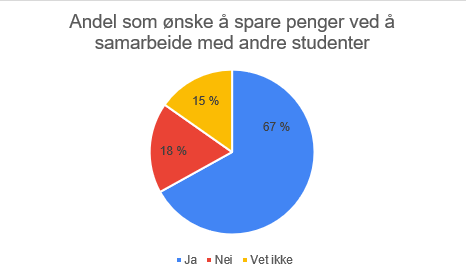
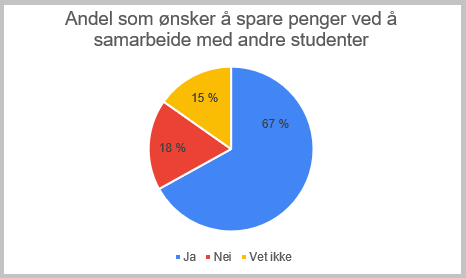
Lagt inn innhold html, css, satt contentWrap

diff --git a/HTML/sideToOmOssNO.html b/HTML/sideToOmOssNO.html
@@ -6,7 +6,7 @@
         <title>CoMeals</title>
     </head>
     <body>
-        <div class="page2Wrap">
+        <div class="contentWrap">
             <div>
                 <h1>Utfordringer</h1>
 
@@ -40,6 +40,12 @@
 
                 <br>
 
+                <div class="sideToPics">
+                        <img src="../Pics/diagramNO.jpg">
+                    </div>  
+
+                <br>
+
                 <p>FN har estimert at ca. en tredjedel av all mat som produseres i verden ikke blir spist.
                     Det er målt at det ble kastet 73kg spiselig mat per innbygger i 2017, noe som tilsvarer
                     et årlig økonomiske tap på 22 milliarder norske kroner og et klimagassutslipp på 1.3 millioner
@@ -50,7 +56,7 @@
                 <br>
                 
                 <div class="sideToPics">
-                    <img src="../Pics/diagramNO.jpg">
+                    <img src="../Pics/cirkelDiagramNO.png">
                 </div>  
                 
                 <br>

diff --git a/CSS/sideToOmOssCSS.css b/CSS/sideToOmOssCSS.css
@@ -1,5 +1,6 @@
-.page2Wrap {
+.contentWrap {
     text-align: center; 
     font-size: 25px;
-    
+    max-width: 1024px; 
+    margin: 0 auto;
 }
